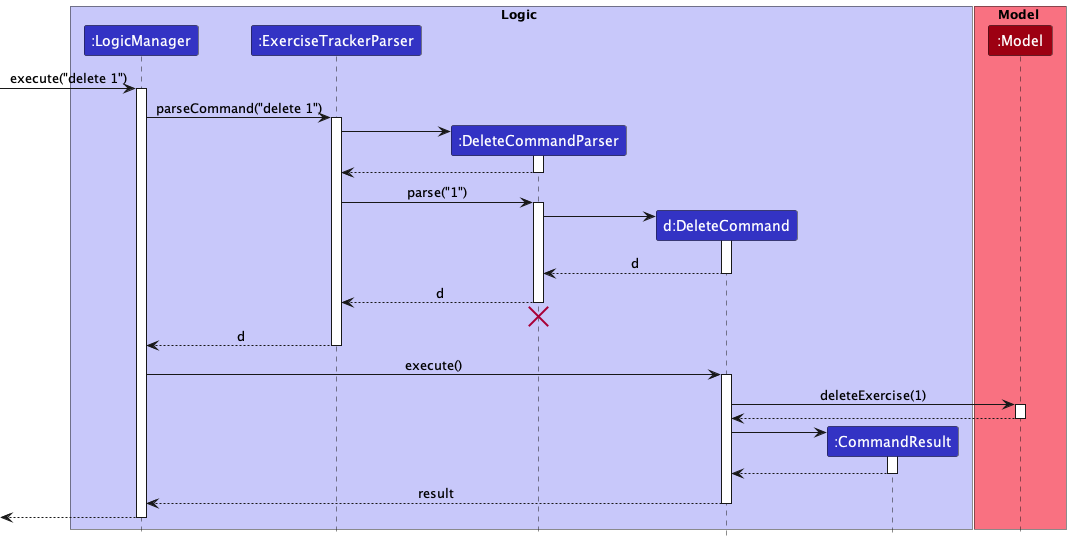
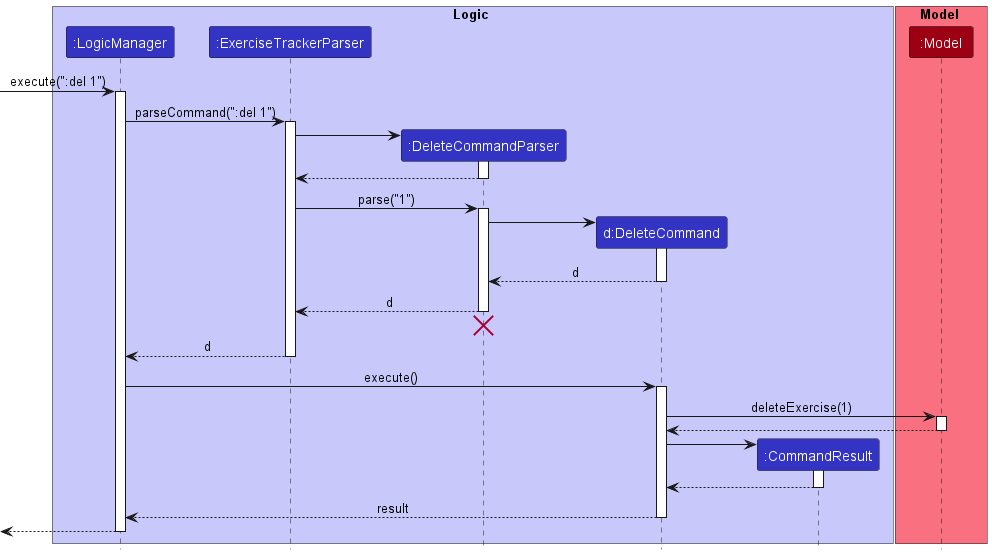
Update DG

Changed region(s): [[0.0, 0.0, 1.0, 1.0], [0.4688, 0.0, 0.5, 0.0591]]

diff --git a/docs/DeveloperGuide.md b/docs/DeveloperGuide.md
@@ -10,7 +10,8 @@ title: Developer Guide
 
 ## **Acknowledgements**
 
-* {list here sources of all reused/adapted ideas, code, documentation, and third-party libraries -- include links to the original source as well}
+* Gim is adapted from the [AddressBook-Level3](https://se-education.org/addressbook-level3/) project created by the SE-EDU initiative.
+* Libraries used: [JavaFX](https://openjfx.io/), [Jackson](https://github.com/FasterXML/jackson), [JUnit5](https://github.com/junit-team/junit5)
 
 --------------------------------------------------------------------------------------------------------------------
 
@@ -55,7 +56,7 @@ The rest of the App consists of four components.
 
 **How the architecture components interact with each other**
 
-The *Sequence Diagram* below shows how the components interact with each other for the scenario where the user issues the command `delete 1`.
+The *Sequence Diagram* below shows how the components interact with each other for the scenario where the user issues the command `:del 1`.
 
 <img src="images/ArchitectureSequenceDiagram.png" width="574" />
 
@@ -109,9 +110,9 @@ How the `Logic` component works:
 
 <div style="page-break-after: always;"></div>
 
-The Sequence Diagram below illustrates the interactions within the `Logic` component for the `execute("delete 1")` API call.
+The Sequence Diagram below illustrates the interactions within the `Logic` component for the `execute(":del 1")` API call.
 
-![Interactions Inside the Logic Component for the `delete 1` Command](images/DeleteSequenceDiagram.png)
+![Interactions Inside the Logic Component for the `:del 1` Command](images/DeleteSequenceDiagram.png)
 
 <div markdown="span" class="alert alert-info">:information_source: **Note:** The lifeline for `DeleteCommandParser` should end at the destroy marker (X) but due to a limitation of PlantUML, the lifeline reaches the end of diagram.
 </div>
@@ -178,7 +179,7 @@ An `Exercise` contains the following attributes:
 2. a `Weight`, which represents the total weight used for a certain Exercise
 3. a `Reps`, which represents the number of times a specific exercise was performed
 4. a `Sets`, which represents the number of cycles of reps that was completed
-5. a `Date`, which represent the date an exercise was performed
+5. a `Date`, which represents the date an exercise was performed
 
 <div style="page-break-after: always;"></div>
 
@@ -209,7 +210,7 @@ of data inside the singleton objects `RegexList` and `FormatterList`. All tests 
 
 #### Design Considerations
 
-**Aspect: Fields of Exercise are Final:**
+**Aspect: Fields of Exercise are Final**
 * **Current choice**: The aforementioned fields in `Exercise` are final, effectively making our Exercise class immutable.
   * Rationale: Code written with immutable objects is easier to reason with and easier to understand, facilitating a smoother process when it comes to debugging and testing any code related to `Exercise`.
 
@@ -242,12 +243,8 @@ It is a duplicated copy of the `internalUnmodifiableList` of type `unmodifiableO
 
 <div style="page-break-after: always;"></div>
 
-#### Sorting Execution
-
 When the command `:sort` is entered, the `Ui` sends the command to `Logic`. `Logic` parses and identifies the `:sort` command that was entered, and creates
 an instance of it. `Logic` then executes the command. `Model` will have the displayed list sorted and the sorted list will be displayed by `Ui`.
-
-#### Example Usage
 
 Given below is an example usage scenario and how the sorting mechanism behaves at each step.
 
@@ -264,7 +261,7 @@ The following sequence diagram shows how the sort command is executed.
 
 <div style="page-break-after: always;"></div>
 
-#### Design considerations:
+#### Design considerations
 
 **Aspect: Displayed List structure**
 * **Current choice**: `displayedList` is a duplicated copy of the list of exercises in `internalUnmodifiableList` of type
@@ -296,8 +293,6 @@ The following sequence diagram shows how the sort command is executed.
 
 <div style="page-break-after: always;"></div>
 
-#### Execution
-
 When the command `:range start/START_DATE end/END_DATE` or `:range last/NUMBER_OF_DAYS` is entered, the `Ui` sends 
 the command to `Logic`. `LogicManager` parses and identifies the `:range` command that was entered, and creates an instance of it.
 
@@ -310,8 +305,6 @@ end date (inclusive), arranged from the most recent first. If two exercise entri
 they will be sorted in alphabetical order.
 
 `Model` will have the list sorted and the sorted list will be displayed by `Ui`.
-
-#### Example Usage
 
 Given below is an example usage scenario and how the date range view mechanism behaves at each step.
 
@@ -329,7 +322,7 @@ The following sequence diagram shows how the date range process is executed.
 
 <div style="page-break-after: always;"></div>
 
-#### Design considerations:
+#### Design considerations
 
 **Aspect: Simplicity of command design**
 * **Current choice**: The two variations of the `:range` command uses the same keyword but with different expected arguments.
@@ -374,9 +367,9 @@ The following sequence diagram shows how the `PrCommand` works.
 
 <div style="page-break-after: always;"></div>
 
-#### Design considerations:
+#### Design considerations
 
-**Aspect: Type of arguments to accept:**
+**Aspect: Type of arguments to accept**
 * **Alternative 1 (current choice)**: Accept exercise names.
     * Pros: Being able to view and list personal records by Exercise name is more intuitive and convenient, especially since all unique Exercises are listed in the UI (bottom right).
     * Cons: Would require users to type more characters; also require users to enter exercise names accurately.
@@ -430,7 +423,7 @@ The number of `Generator` objects created is equal to the number of unique exerc
 
 </div>
 
-#### Design considerations:
+#### Design considerations
 
 **Aspect: Number of `Generator` objects:**
 * **Current choice**: Pairing each unique exercise to one `Generator`.
@@ -532,13 +525,13 @@ Through this pattern, each observer gets to define exactly what the required dis
 
 **Target user profile**:
 
-* Programmers who love vim and want to hit the gym for some exercise but they are too occupied with work to recall their progressions and don’t know / remember what to do next
+* Programmers who love vim and want to hit the gym for some exercise. However, they are too occupied with work to recall their progressions and don’t know what to do next
 * They may also find it hard to remember their statistics on each exercise
 
 **Value proposition**:
 * Leverage on their blazing speed on vim to save, write and view gym data in a familiar fashion
 * Provides a fast platform for users to track their gym progress or workout routine
-* Has vim-like shortcuts to make things more efficient for vim lovers
+* Has vim-like commands to make things more efficient for vim lovers
 
 
 ### **User stories**
@@ -697,15 +690,15 @@ Actor: User <br>
 
 <div style="page-break-after: always;"></div>
 
-#### Use case 8: Filter exercises by name(s)
+#### Use case 8: Filter exercises by keyword(s)
 
 System: Gim <br>
-Use case: UC08 - Filter exercises by name(s) <br>
+Use case: UC08 - Filter exercises by keyword(s) <br>
 Actor: User <br>
 
 **MSS**
 
-1. User requests to filter the displayed list of exercises by name(s).
+1. User requests to filter the displayed list of exercises by keyword(s).
 2. Gim displays the filtered list of exercises.
    <br>Use case ends.
 
@@ -793,18 +786,24 @@ Actor: User <br>
 3. Should work without an internet connection.
 4. Should be able to support frequent updating of data.
 5. A user with above average typing speed for regular English text (i.e. not code, not system admin commands) should be able to accomplish most of the tasks faster using commands than using the mouse.
+6. Should not be able to verify if the user actually perform the exercises they input.
+7. Users with no coding background should be able to use Gim.
+8. Should be optimised for a single user.
+9. The product file size should not exceed 100MB.
+10. Data should be persisted locally and be in a human-readable format, e.g. JSON.
+11. Should be delivered to a user as a single JAR file.
+12. Should not lose any data if application is closed through external means (i.e. not using exit command).
 
-*{More to be added}*
 
 ### **Glossary**
 * **Exercise**: Physical activity done in a regular gym that is structured and repetitive, usually involving some weights.
-* **Mainstream OS**: Windows, Linux, Unix, OS-X
+* **Mainstream OS**: Windows, Linux, Unix, OS-X.
 * **Personal Record (PR)**: Heaviest weight recorded in the exercise tracker for a specific exercise.
 * **Rate of Perceived Exertion (RPE)**: A measure of a physical activity intensity level.
-* **Reps**: Number of times you perform a specific exercise
-* **Sets**: Number of cycles of reps that you complete
+* **Reps**: Number of times you perform a specific exercise.
+* **Sets**: Number of cycles of reps that you complete.
 * **Vim**: A Unix text editor, known for being lightweight, fast and efficient. It can be controlled entirely with the keyboard with no need for menus or a mouse.
-* **Weight**: Total weight (include barbell if applicable, exclude body weight)
+* **Weight**: Total weight of equipment (in kg).
 
 --------------------------------------------------------------------------------------------------------------------
 
@@ -885,7 +884,7 @@ testers are expected to do more *exploratory* testing.
 
 <div style="page-break-after: always;"></div>
 
-### Filtering exercises
+### Filtering exercises by keyword(s)
 
 1. Filtering displayed list of exercises using keyword(s).
 
@@ -904,7 +903,7 @@ testers are expected to do more *exploratory* testing.
 
 ### Sorting exercises
 
-1. Sorting displayed list of exercises using keyword(s).
+1. Sorting displayed list of exercises by order of date.
 
     1. Prerequisite: There are multiple exercises in the Exercise List.
 
@@ -991,6 +990,7 @@ testers are expected to do more *exploratory* testing.
 
 1. Dealing with missing/corrupted data files
 
-   1. _{explain how to simulate a missing/corrupted file, and the expected behavior}_
+    1. Prerequisites: Able to access the `/data` folder (created in the same folder containing the `Gim.jar` file).
 
-1. _{ more test cases … }_
+    2. Test Case: Navigate to the `/data` folder and delete the `exercisetracker.json` file. Then reopen the application. <br>
+        Expected: The application will be repopulated with the initial starting data.

diff --git a/docs/SettingUp.md b/docs/SettingUp.md
@@ -45,7 +45,7 @@ If you plan to use Intellij IDEA (highly recommended):
 
 1. **Learn the design**
 
-   When you are ready to start coding, we recommend that you get some sense of the overall design by reading about [AddressBook’s architecture](DeveloperGuide.md#architecture).
+   When you are ready to start coding, we recommend that you get some sense of the overall design by reading about [Gim’s architecture](DeveloperGuide.md#architecture).
 
 1. **Do the tutorials**
    These tutorials will help you get acquainted with the codebase.
